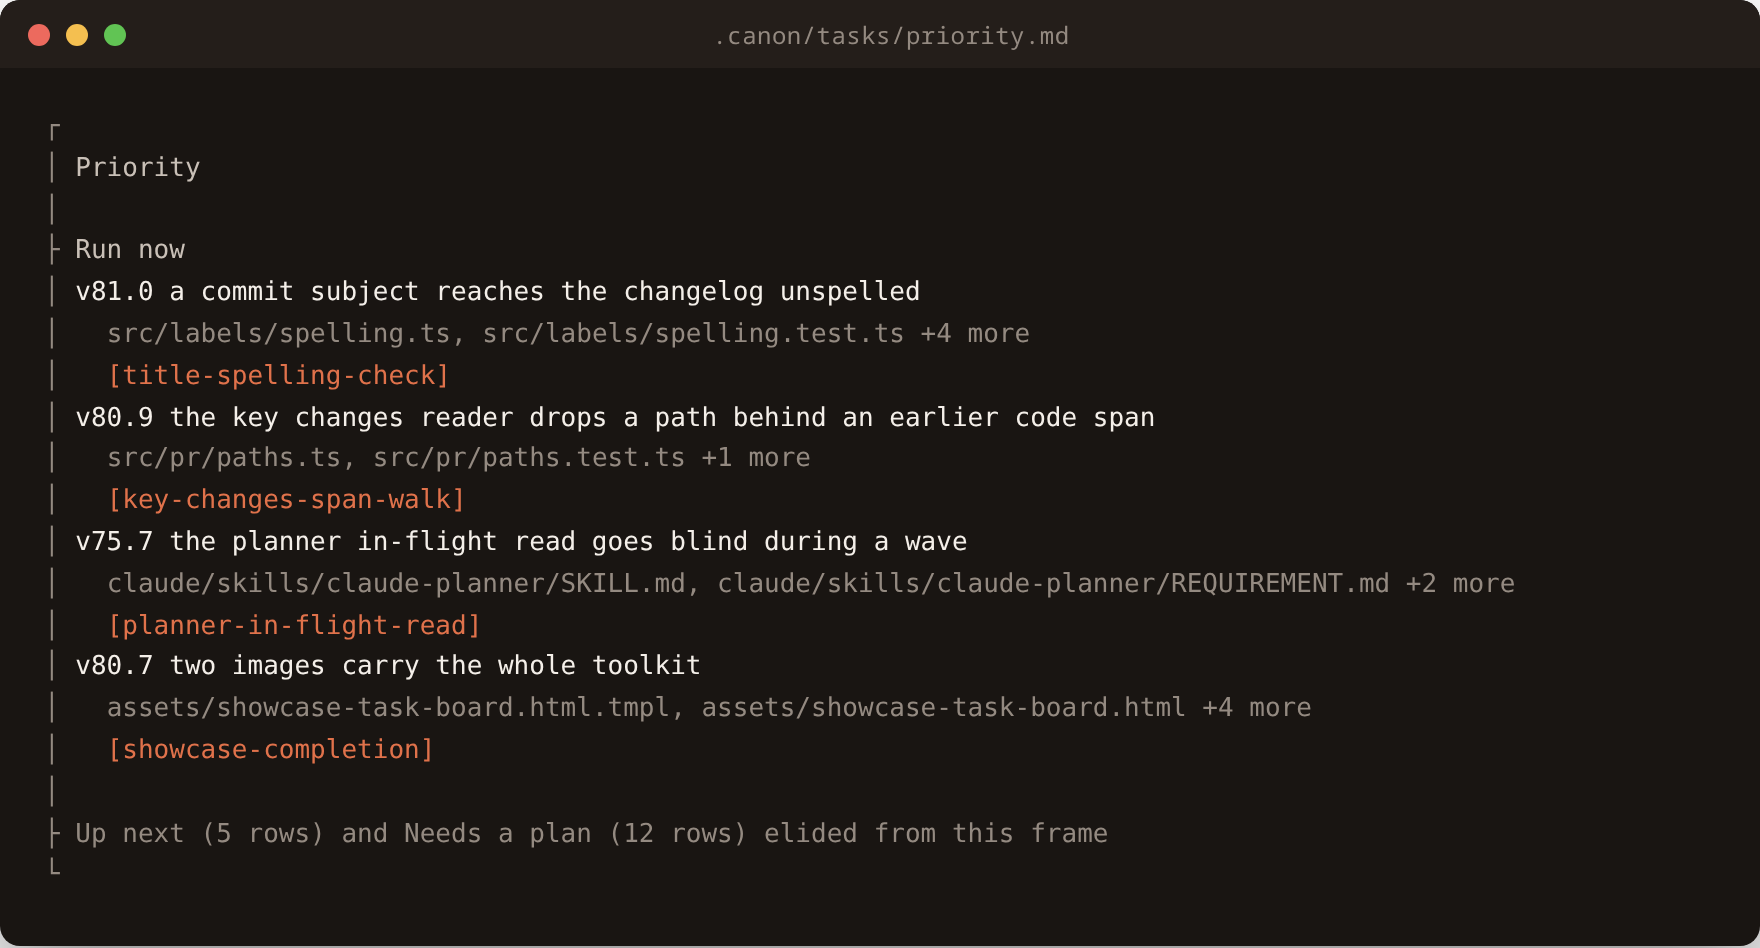
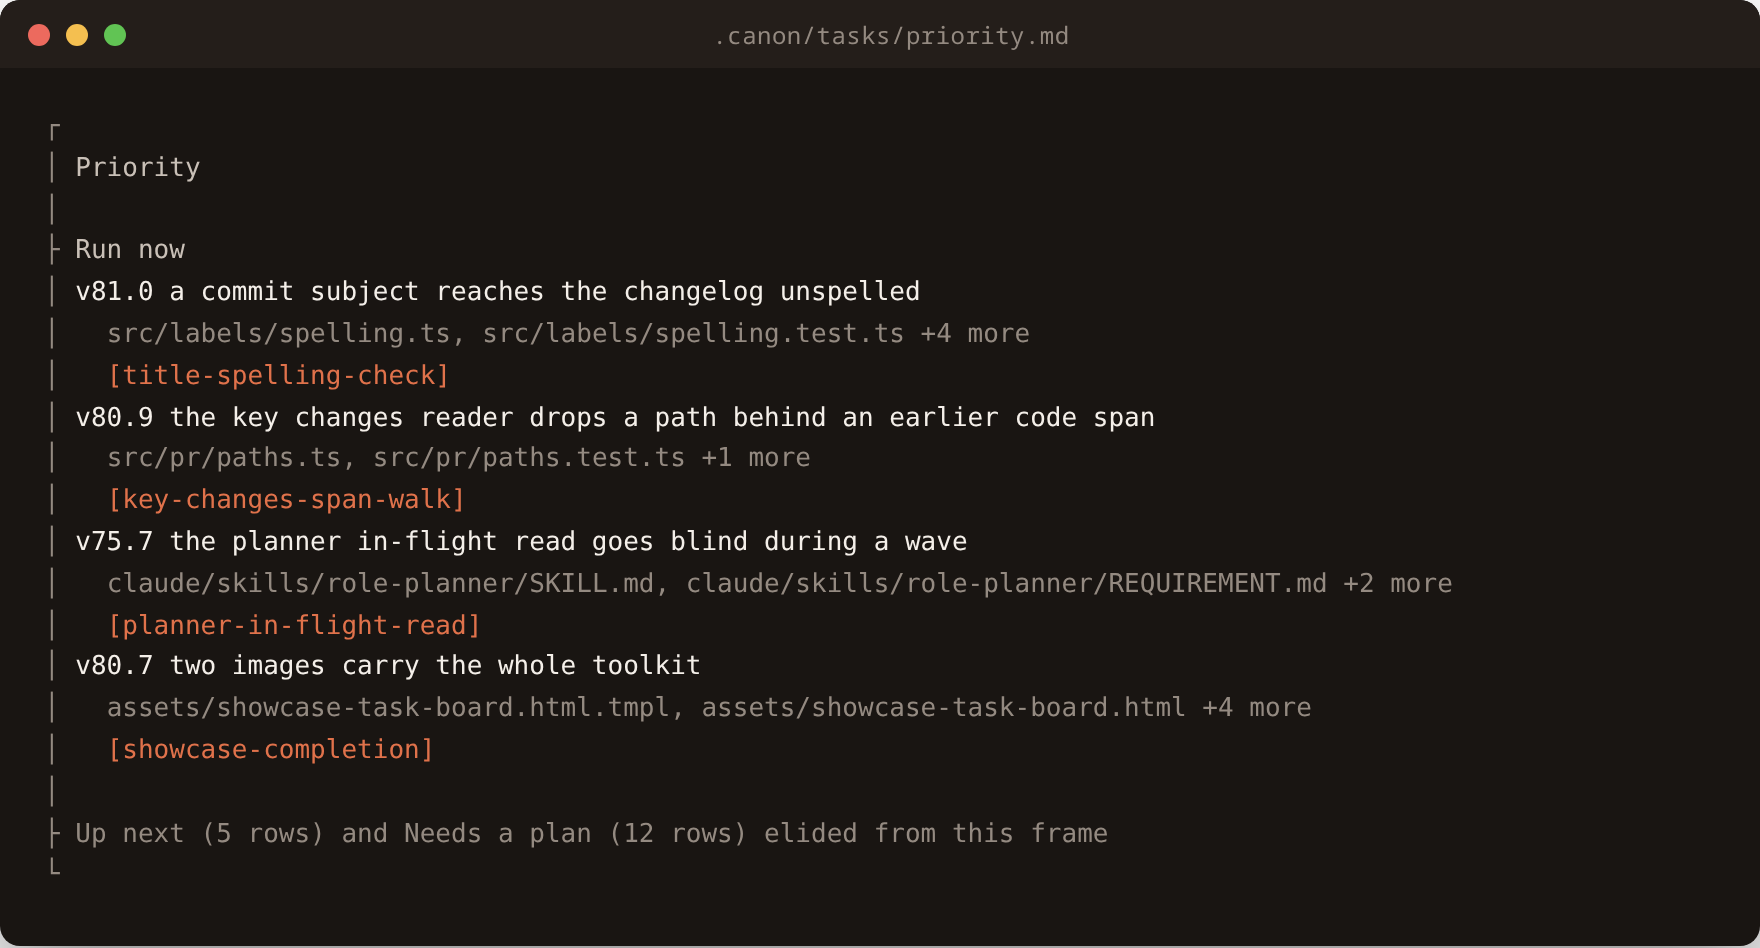
chore(assets): recapture the frames the catalog rename moved
`regen-hero.sh` reads `canon claude skills list` live, so `bun run check`
rewrote the hero markup, and `task-board.html.tmpl` names a skill path as
sample text. The stamp measure fails until the images beside them are
recaptured.

Claude-Session: https://claude.ai/code/session_01WEpUTvFkL9bLEN5myBpqJr

Changed region(s): [[0.1875, 0.5812, 0.8438, 0.6424]]

diff --git a/assets/captures/hero.html b/assets/captures/hero.html
@@ -280,13 +280,13 @@
               <span class="col-name">skills</span><span class="col-count">78</span>
             </div>
             <div class="col-dest">via the plugin</div>
-            <div class="entry">claude-feature</div>
-            <div class="entry">claude-groundwork</div>
-            <div class="entry">claude-intake</div>
-            <div class="entry">claude-orchestrate</div>
-            <div class="entry">claude-autoship</div>
-            <div class="entry">claude-pr-review</div>
-            <div class="entry">claude-tasks</div>
+            <div class="entry">plan-feature</div>
+            <div class="entry">plan-groundwork</div>
+            <div class="entry">plan-intake</div>
+            <div class="entry">role-orchestrator</div>
+            <div class="entry">auto-ship</div>
+            <div class="entry">review-pr</div>
+            <div class="entry">task-board</div>
             <div class="entry">git-ship</div>
             <div class="entry">setup-init</div>
             <div class="entry">systematic-debugging</div>

diff --git a/assets/captures/task-board.html b/assets/captures/task-board.html
@@ -195,7 +195,7 @@
 <span class="frame">│</span>   <span class="muted">src/pr/paths.ts, src/pr/paths.test.ts +1 more</span>
 <span class="frame">│</span>   <span class="plan">[key-changes-span-walk]</span>
 <span class="frame">│</span> <span class="name">v75.7 the planner in-flight read goes blind during a wave</span>
-<span class="frame">│</span>   <span class="muted">claude/skills/claude-planner/SKILL.md, claude/skills/claude-planner/REQUIREMENT.md +2 more</span>
+<span class="frame">│</span>   <span class="muted">claude/skills/role-planner/SKILL.md, claude/skills/role-planner/REQUIREMENT.md +2 more</span>
 <span class="frame">│</span>   <span class="plan">[planner-in-flight-read]</span>
 <span class="frame">│</span> <span class="name">v80.7 two images carry the whole toolkit</span>
 <span class="frame">│</span>   <span class="muted">assets/showcase-task-board.html.tmpl, assets/showcase-task-board.html +4 more</span>
